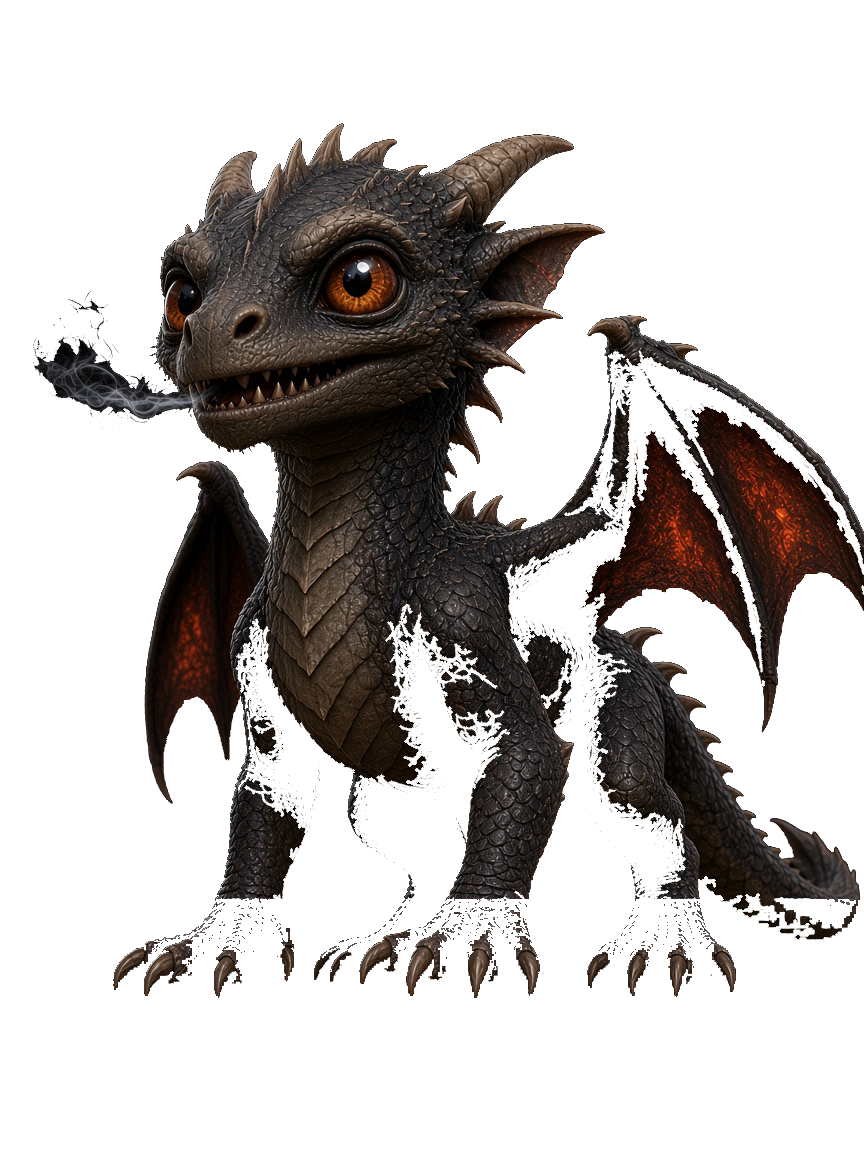
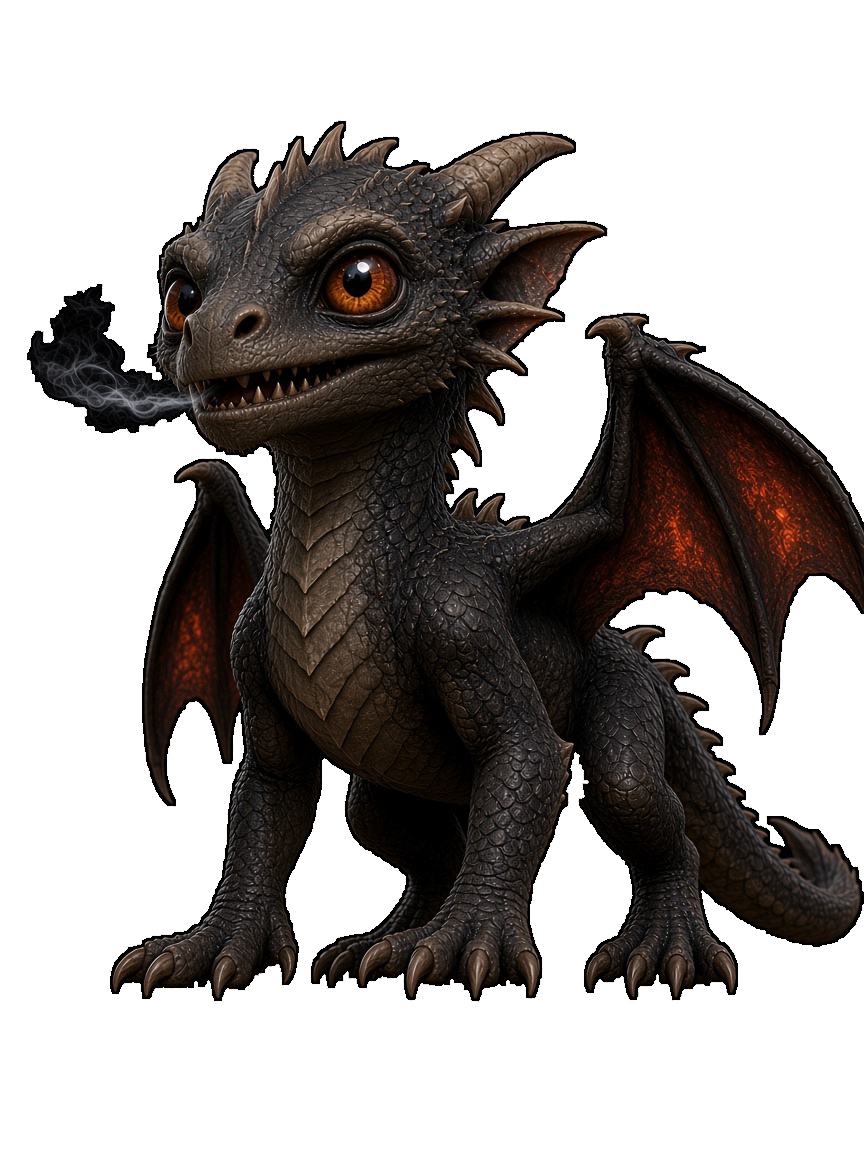
ハデスとちびドラゴンの黒い部分を透過で消さない。
平らな背景だけを抜き、衣と鱗は残す。

diff --git a/index.html b/index.html
@@ -9802,7 +9802,7 @@
       },
       {
         name: "ちびドラゴン",
-        image: "enemy-dragon.png?v=6",
+        image: "enemy-dragon.png?v=7",
         tier: 2,
         rank: "普通",
         stature: "small",
@@ -9842,7 +9842,7 @@
       },
       {
         name: "ハデス",
-        image: "enemy-hades.png?v=8",
+        image: "enemy-hades.png?v=9",
         tier: 4,
         rank: "★★★★",
         stature: "huge",
@@ -10937,10 +10937,10 @@
       "enemy-goblin.png": { w: 864, h: 1152, top: 20, bottom: 38, left: 15, right: 825 },
       "enemy-kobold.png": { w: 864, h: 1152, top: 30, bottom: 18, left: 146, right: 701 },
       "enemy-minotaur.png": { w: 864, h: 1152, top: 50, bottom: 75, left: 67, right: 853 },
-      "enemy-dragon.png": { w: 864, h: 1152, top: 123, bottom: 154, left: 33, right: 863 },
+      "enemy-dragon.png": { w: 864, h: 1152, top: 120, bottom: 150, left: 27, right: 863 },
       "enemy-troll.png": { w: 864, h: 1152, top: 64, bottom: 29, left: 27, right: 863 },
       "enemy-beggar.png": { w: 864, h: 1152, top: 30, bottom: 32, left: 94, right: 718 },
-      "enemy-hades.png": { w: 864, h: 1152, top: 86, bottom: 133, left: 44, right: 856 },
+      "enemy-hades.png": { w: 864, h: 1152, top: 84, bottom: 131, left: 41, right: 857 },
     };
 
     function foeInkVars(image) {
@@ -16407,10 +16407,10 @@
               ${sheetFig("enemy-kobold.png?v=5", "コボルド", "enemy-ref")}
               ${sheetFig("enemy-troll.png?v=4", "トロール", "enemy-ref")}
               ${sheetFig("enemy-minotaur.png?v=11", "ミノタウロス", "enemy-ref")}
-              ${sheetFig("enemy-dragon.png?v=6", "ちびドラゴン", "enemy-ref")}
+              ${sheetFig("enemy-dragon.png?v=7", "ちびドラゴン", "enemy-ref")}
               ${sheetFig("enemy-death-dragon.png?v=1", "デスドラゴン", "enemy-ref")}
               ${sheetFig("enemy-beggar.png?v=4", "物乞い", "enemy-ref")}
-              ${sheetFig("enemy-hades.png?v=8", "ハデス", "enemy-ref")}
+              ${sheetFig("enemy-hades.png?v=9", "ハデス", "enemy-ref")}
               ${sheetFig("enemy-ram.png?v=1", "羊頭のデーモン", "enemy-ref")}
               ${sheetFig("enemy-gargoyle.png?v=1", "ガーゴイル", "enemy-ref")}
               ${sheetFig("enemy-merfolk.png?v=1", "マーフォーク", "enemy-ref")}
